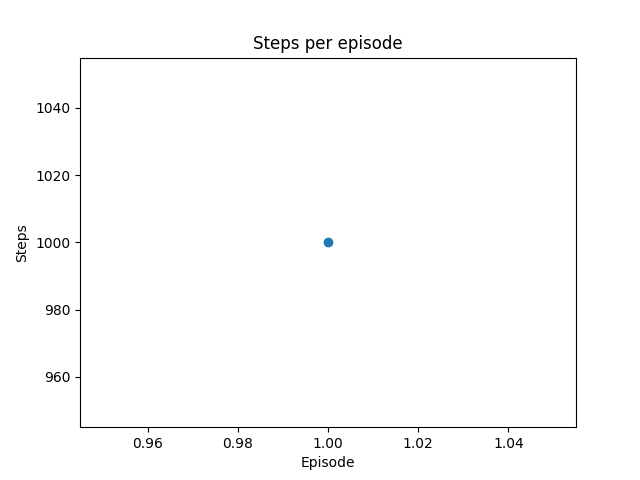
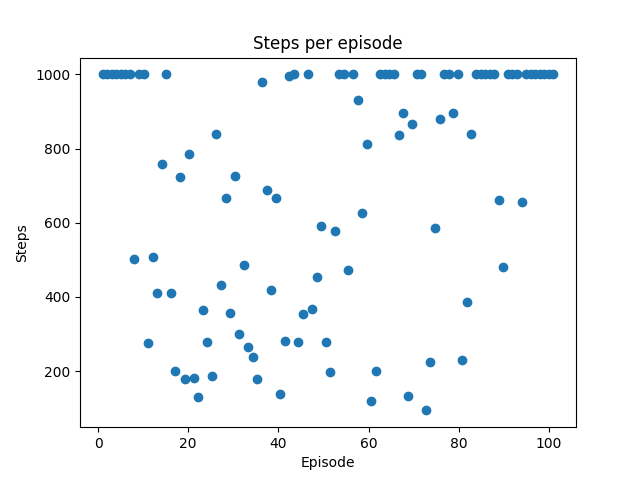
Rename modules

diff --git a/src/Agent.py b/src/Agent.py
@@ -1,6 +1,5 @@
-from __future__ import annotations
-
 import random
+from typing import List
 
 import numpy as np
 import tensorflow as tf
@@ -9,13 +8,13 @@ from keras.layers import Dense, Input
 from keras.models import Sequential
 
 import parameters
-from mountaincar import Action, State
-from tile_encoder import TileEncoder
+from MountainCar import Action, State
+from TileEncoder import TileEncoder
 
 
 class Agent:
 
-    actions: list[Action] = [-1, 0, 1]
+    actions: List[Action] = [-1, 0, 1]
 
     def __init__(self) -> None:
         self.epsilon = parameters.EPSILON
@@ -31,7 +30,7 @@ class Agent:
         self.optimizer = parameters.NN_OPTIMIZER
         self.loss_function = parameters.NN_LOSS_FUNCTION
 
-        self.Q: Sequential = self.build_model()
+        self.Q = self.build_model()
 
         self.reset_eligibilities()
         self.epsilon_history = []
@@ -45,8 +44,7 @@ class Agent:
         assert output_dim == 1, 'Output dimension must be 1'
 
         model = Sequential()
-        print(input_dim)
-        model.add(Input(shape=(input_dim + 1,)))
+        model.add(Input(shape=(input_dim + 1,)))  # +1 for the action a: Q(s, a)
 
         for dimension in hidden_dims:
             model.add(Dense(dimension, activation=self.activation_function))
@@ -64,12 +62,6 @@ class Agent:
         self.epsilon *= self.epsilon_decay_rate
         self.epsilon_history.append(self.epsilon)
 
-    def choose_epsilon_greedy(self, state: State) -> Action:
-        """Epsilon-greedy action selection function."""
-        if random.random() < self.epsilon:
-            return self.choose_uniform()
-        return self.choose_greedy(state)
-
     def choose_uniform(self) -> Action:
         return random.choice(Agent.actions)
 
@@ -79,11 +71,11 @@ class Agent:
             actions.append(float(self.Q(tf.convert_to_tensor([np.hstack((self.encoder.tile_encode(state), action))]))))  # type: ignore
         return Agent.actions[np.argmax(actions)]
 
-    def choose_stochastic(self, state: State, temperature: int = 1) -> Action:
-        # action_probabilities = np.array(self.Q(tf.convert_to_tensor([state])))
-        # action_probabilities = softmax_v2(action_probabilities, temperature)
-        # return np.random.choice(range(0, 10), 1, p=action_probabilities)[0]  # ??
-        raise NotImplementedError
+    def choose_epsilon_greedy(self, state: State) -> Action:
+        """Epsilon-greedy action selection function."""
+        if random.random() < self.epsilon:
+            return self.choose_uniform()
+        return self.choose_greedy(state)
 
     def update(self, state: State, action: Action, reward: float, next_state: State, next_action: Action) -> None:
         """Updates eligibilities, then the value function."""
@@ -110,7 +102,3 @@ class Agent:
         self.eligibilities = []
         for weights in self.Q.trainable_weights:
             self.eligibilities.append(tf.zeros(weights.shape))
-
-
-# def softmax_v2(x: int, temperature: float = 1.0) -> float:
-#     return np.exp(x / temperature) / sum(np.exp(x / temperature))

diff --git a/src/visualize.py b/src/visualize.py
@@ -1,12 +1,17 @@
+# type: ignore
+""" visualize.py
+    utility module for plotting with matplotlib
+"""
+
 import math
 from typing import List, Optional, Tuple
 
 import matplotlib.pyplot as plt
 import numpy as np
 from matplotlib.animation import FuncAnimation
-from matplotlib.patches import FancyArrowPatch, ArrowStyle
+from matplotlib.patches import ArrowStyle, FancyArrowPatch
 
-from mountaincar import Action, MountainCar
+from MountainCar import Action, MountainCar
 
 
 def animate_track(state_action_history: List[Tuple[float, Action]], filename: Optional[str] = None) -> None:
@@ -25,14 +30,14 @@ def animate_track(state_action_history: List[Tuple[float, Action]], filename: Op
     y_t = y(state_history)
 
     point = ax.plot(state_history[0], y_t[0], color='green', marker='o')[0]
-    a = ax.add_patch(FancyArrowPatch((state_history[0], y_t[0]), (state_history[0] + 0.1 * action_history[0], y_t[0])))
+    a = ax.add_patch(FancyArrowPatch((state_history[0], y_t[0]), (state_history[0] + 0.1 * action_history[0], y_t[0])))  # noqa
 
     point.set_data(0, 0)
 
     def animate(i):
         ax.patches.pop(0)
         point.set_data(state_history[i], y_t[i])
-        a = ax.add_patch(FancyArrowPatch((state_history[i], y_t[i]), (state_history[i] + 0.1 * action_history[i], y_t[i]), color='green', arrowstyle=ArrowStyle("->", head_length=1.5, head_width=1.5)))
+        a = ax.add_patch(FancyArrowPatch((state_history[i], y_t[i]), (state_history[i] + 0.1 * action_history[i], y_t[i]), color='green', arrowstyle=ArrowStyle("->", head_length=1.5, head_width=1.5)))  # noqa
         return point
 
     anim = FuncAnimation(fig, animate, interval=100, frames=len(state_history) - 1)
@@ -71,7 +76,7 @@ def plot_loss(loss_history: List[int]) -> None:
 def plot_epsilon(epsilon_history) -> None:
     plt.title('Epsilon')
     plt.xlabel('Time step')
-    plt.ylabel('$\epsilon$')
+    plt.ylabel('$\epsilon$')  # noqa
 
     x = [i for i in range(len(epsilon_history))]
     explore_history = [y for y in epsilon_history if y > 0.5]

diff --git a/src/parameters.py b/src/parameters.py
@@ -2,11 +2,10 @@ from keras.activations import linear, relu, sigmoid, tanh  # noqa
 from keras.losses import mse  # noqa
 from keras.optimizers import SGD, Adagrad, Adam, RMSprop  # noqa
 
-
 # RL parameters
-EPISODES = 1
-CACHING_INTERVAL = 1
-VISUALIZE_FINAL_GAME = True
+EPISODES = 100
+CACHING_INTERVAL = 10
+VISUALIZE_FINAL_GAME = False
 
 # Domain & TileEncoder parameters
 SIZE_OF_TILING_X = 4
@@ -19,11 +18,11 @@ Y_RANGE = (-0.07, 0.07)
 
 # Agent
 EPSILON = 1
-EPSILON_DECAY = 0.96
+EPSILON_DECAY = 0.97
 DISCOUNT_FACTOR = 0.92
 TRACE_DECAY = 0.9
 
-NN_LEARNING_RATE = 0.01
+NN_LEARNING_RATE = 0.05
 NN_DIMENSIONS = (NUMBER_OF_FEATURES, 1)
 NN_ACTIVATION_FUNCTION = relu  # linear, relu, sigmoid, or tanh
 NN_OPTIMIZER = Adam  # SGD, Adagrad, Adam, or RMSprop

diff --git a/src/SARSA.py b/src/SARSA.py
@@ -3,7 +3,7 @@ from typing import List, Tuple
 import parameters
 import visualize
 from Agent import Agent
-from mountaincar import Action, MountainCar
+from MountainCar import Action, MountainCar
 
 
 class SARSA:
@@ -44,7 +44,7 @@ class SARSA:
             print('Episode:', episode)
             steps, state_action_history = self.run_one_episode()
             self.steps_per_episode.append(steps)
-            if episode % parameters.CACHING_INTERVAL == 0 or steps < 1000:
+            if episode % parameters.CACHING_INTERVAL == 0:
                 visualize.animate_track(state_action_history, f'agent-{episode}')
 
         print('Training completed.')

diff --git a/src/mountaincar.py b/src/mountaincar.py
@@ -34,7 +34,7 @@ class MountainCar:
         return self.position >= MountainCar.position_bound[1]
 
     def get_reward(self) -> float:
-        return self.height(self.position) + 10 * int(self.is_final_state())
+        return -1 + 2 * int(self.is_final_state())
 
     def height(self, x: float) -> float:
         return math.cos(3 * (x + math.pi / 2))
